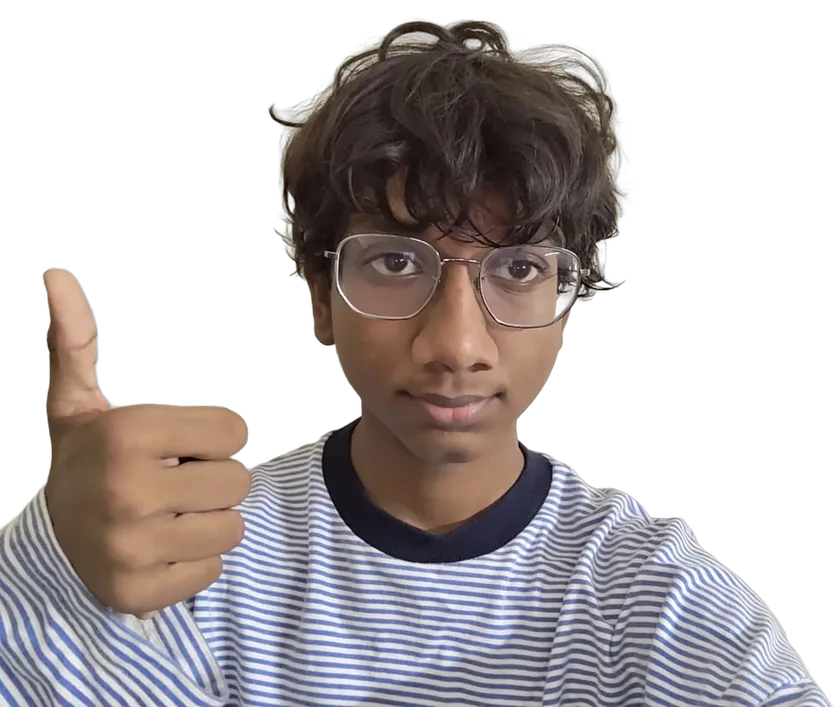
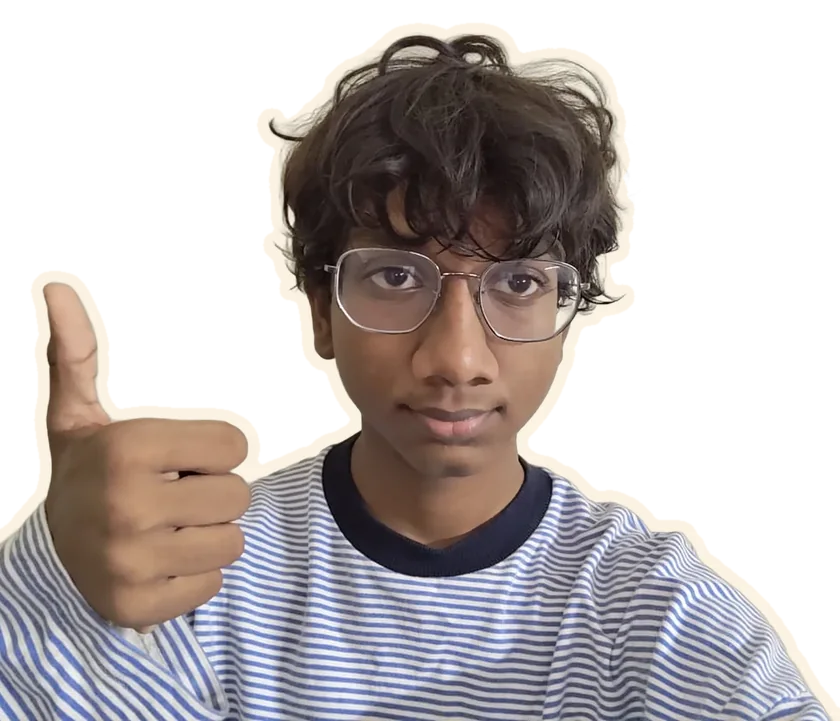
Add cream sticker outline around the hero portrait
Bake a cream outline that follows the photo's silhouette into
portrait.webp, smoothing gaps between hair strands, and update the
image's intrinsic size.

Claude-Session: https://claude.ai/code/session_01MBxW6ssfQ9xzRQZDKGtaKk

diff --git a/index.html b/index.html
@@ -85,7 +85,7 @@
         <div class="pblock" aria-hidden="true"></div>
         <svg class="sd-spark sp1" viewBox="0 0 48 48" aria-hidden="true"><path d="M24 0C25.6 15 29.6 21.4 48 24C29.6 26.6 25.6 33 24 48C22.4 33 18.4 26.6 0 24C18.4 21.4 22.4 15 24 0Z"/></svg>
         <div class="photo">
-          <img src="assets/img/portrait.webp" width="840" height="707" alt="Sai Dharshan giving a thumbs up" fetchpriority="high">
+          <img src="assets/img/portrait.webp" width="840" height="721" alt="Sai Dharshan giving a thumbs up" fetchpriority="high">
         </div>
         <span class="st st1 sd-sticker">Py</span>
         <span class="st st2 sd-sticker sd-sticker--crimson">ML</span>
